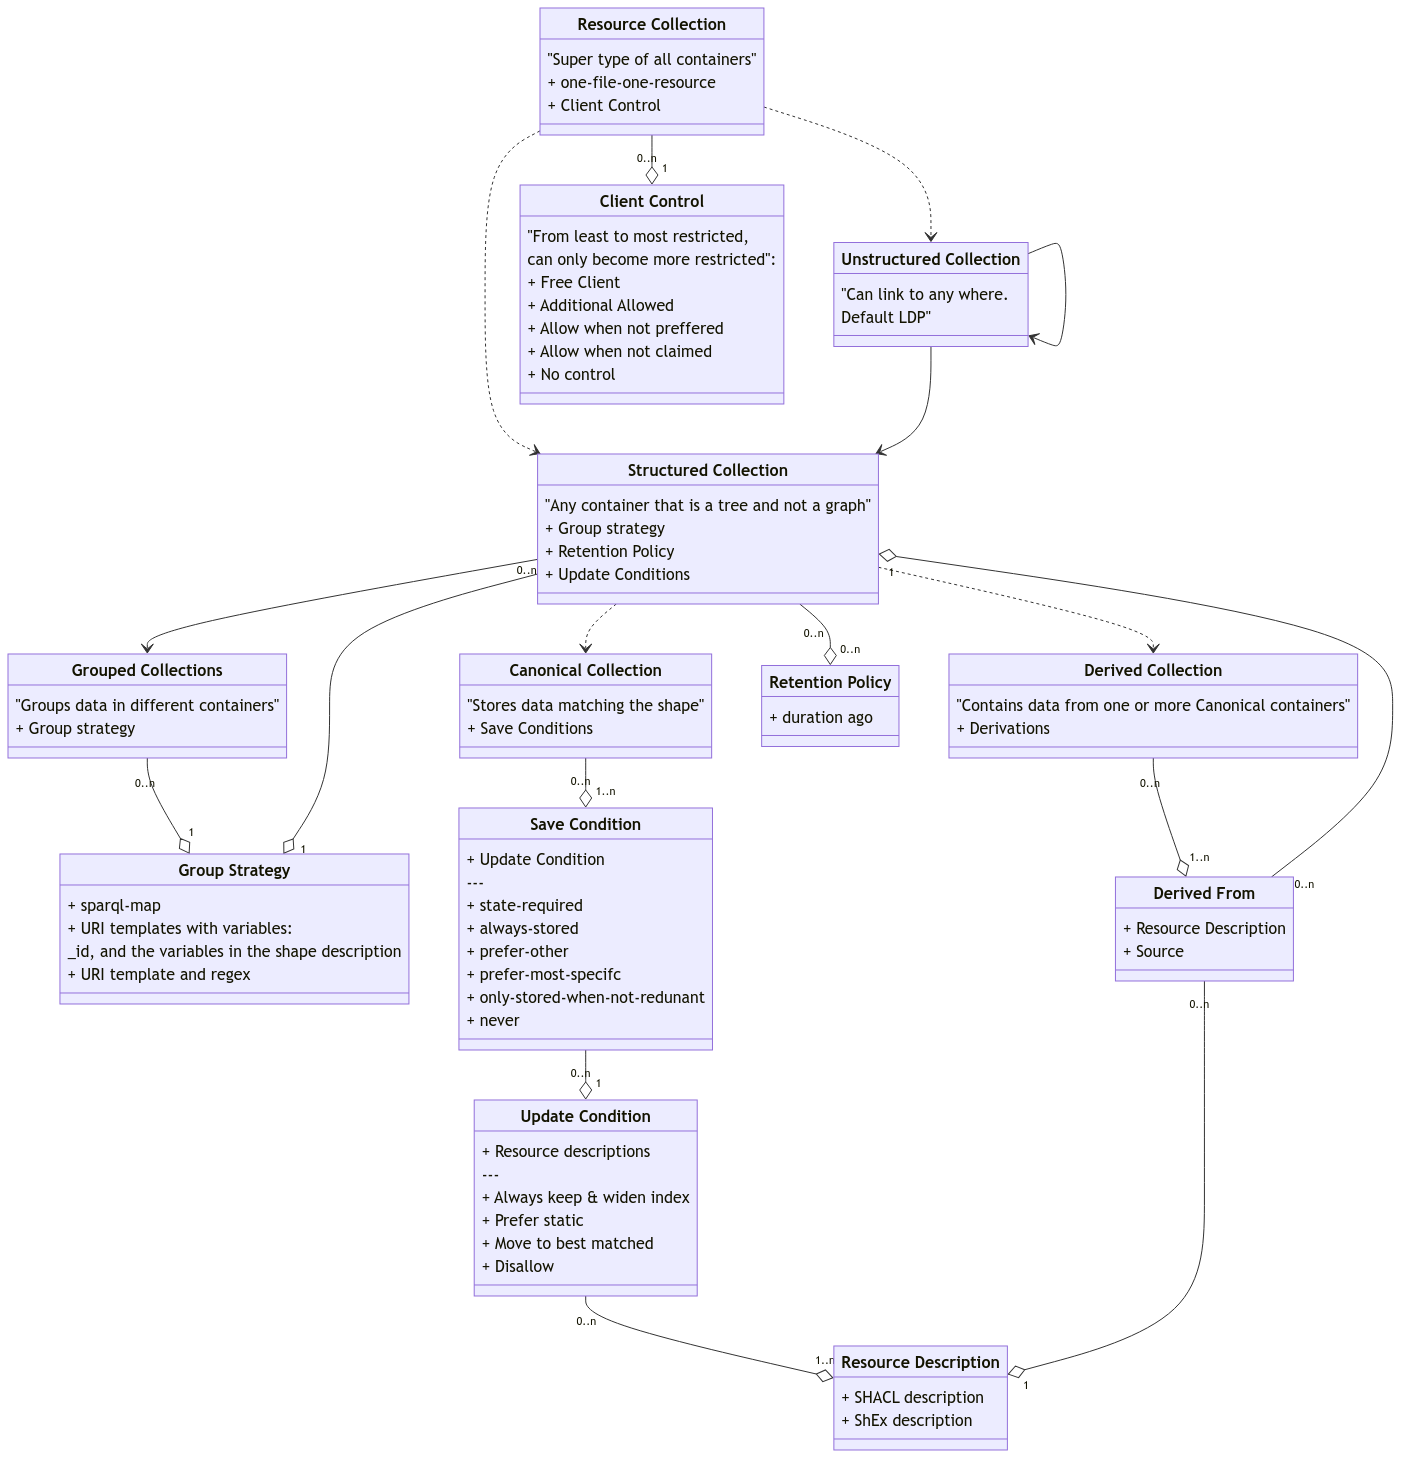
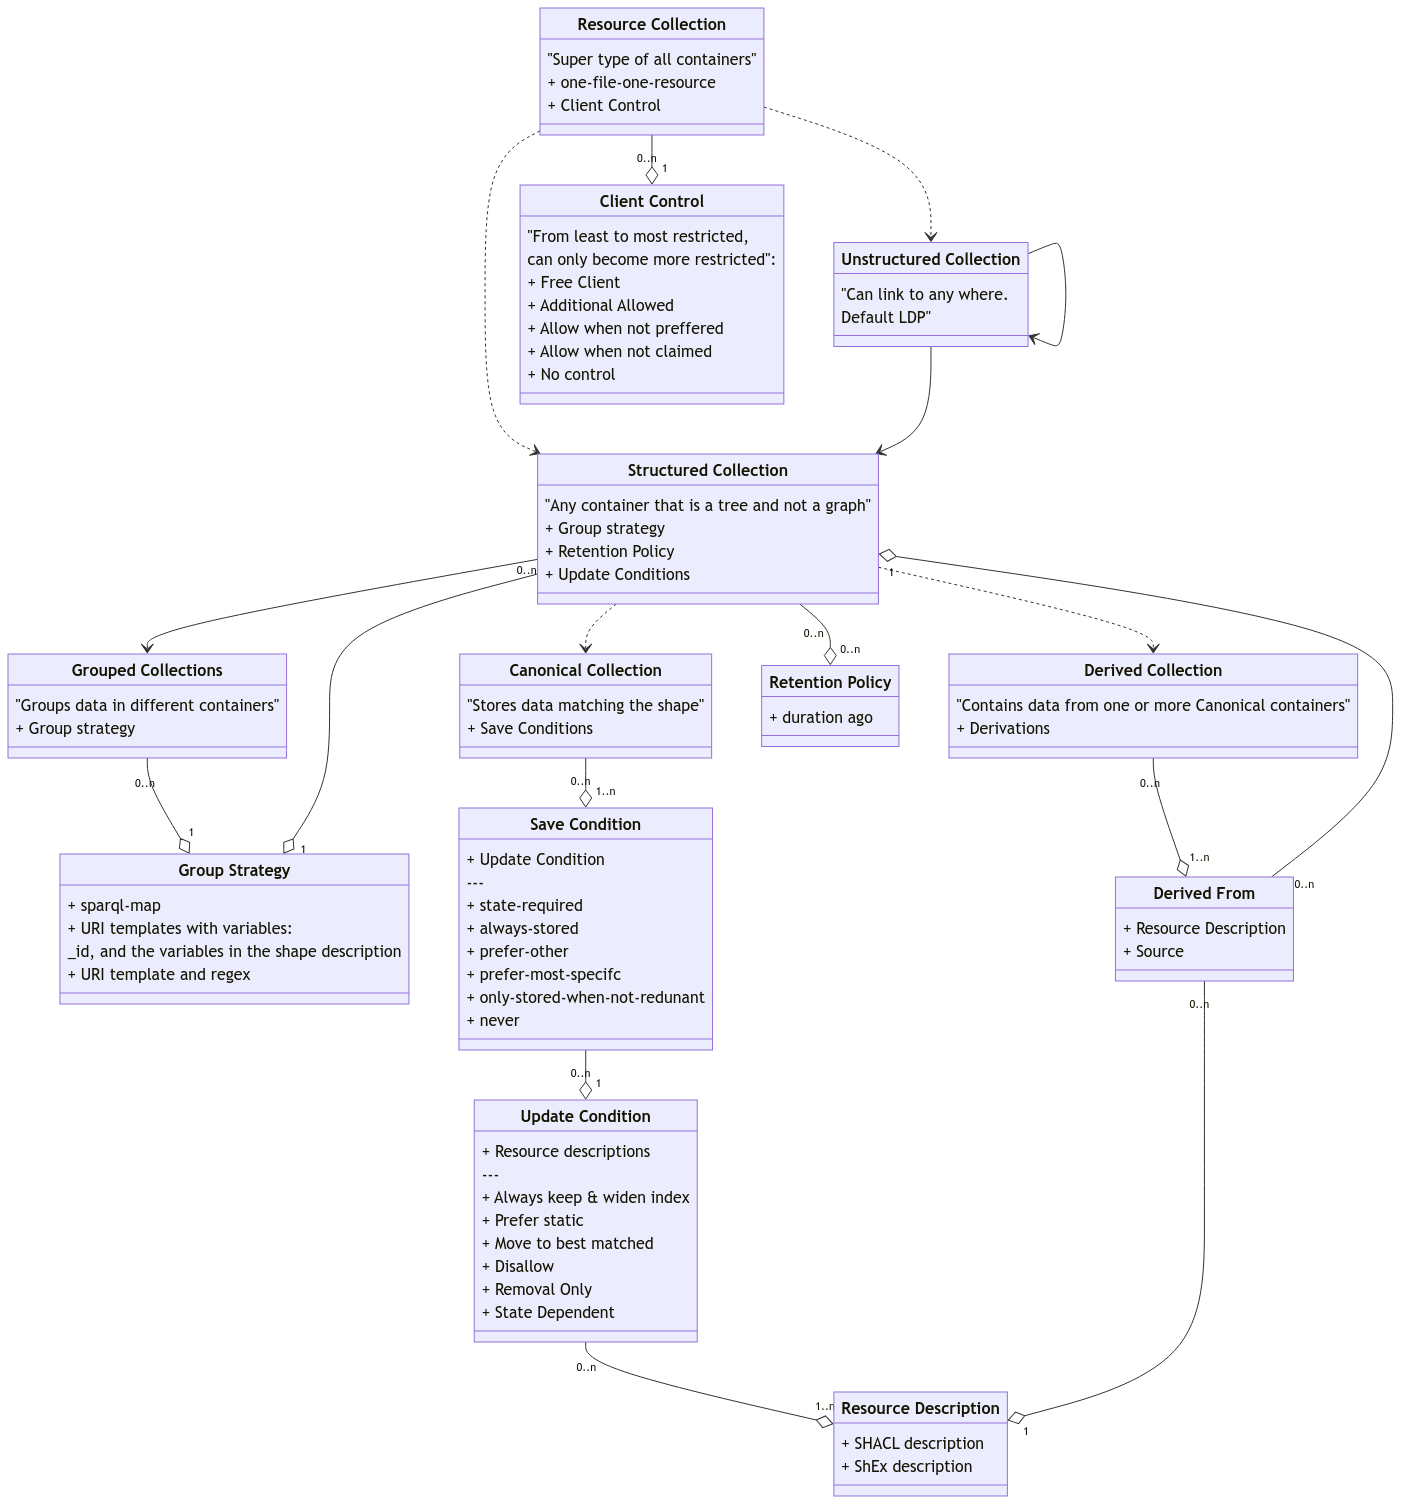
update graphs, again

diff --git a/solution/storage-guidance-vocabulary/index.md b/solution/storage-guidance-vocabulary/index.md
@@ -148,6 +148,8 @@ classDiagram
     + Prefer static
     + Move to best matched
     + Disallow
+    + Removal Only
+    + State Dependent
   }
 
   C "0..n" --o "1" CControl
